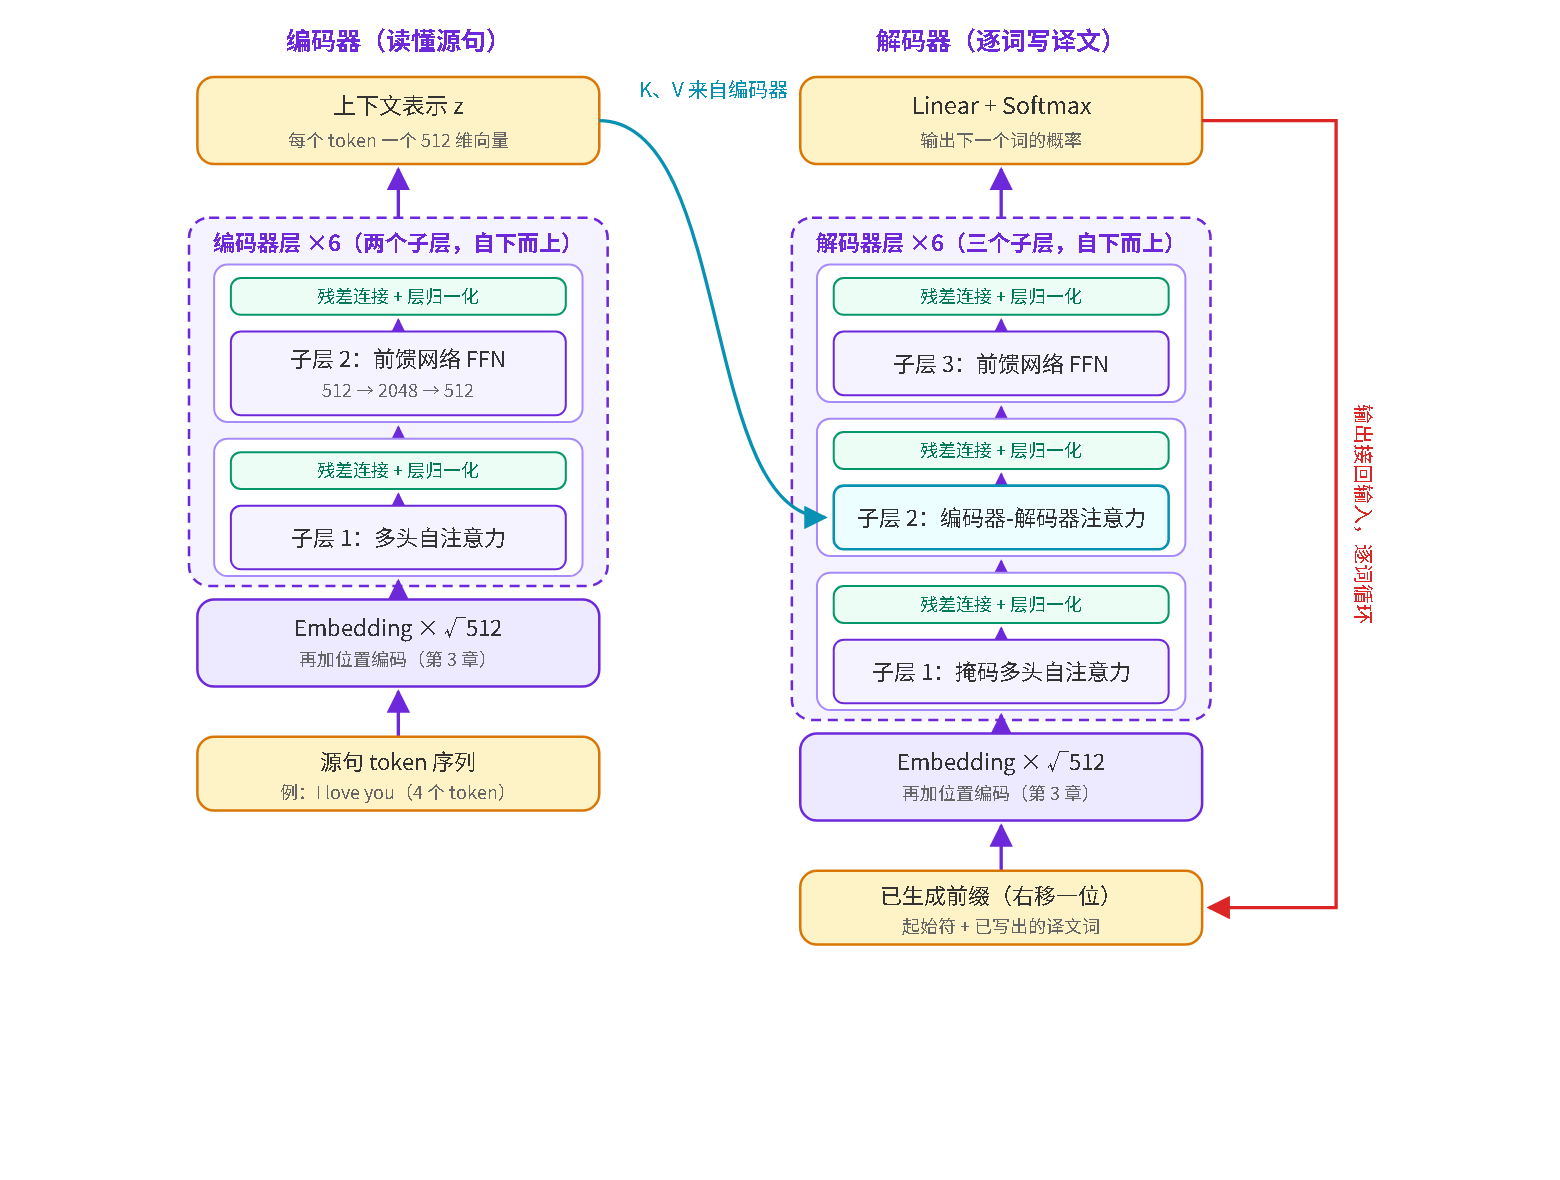
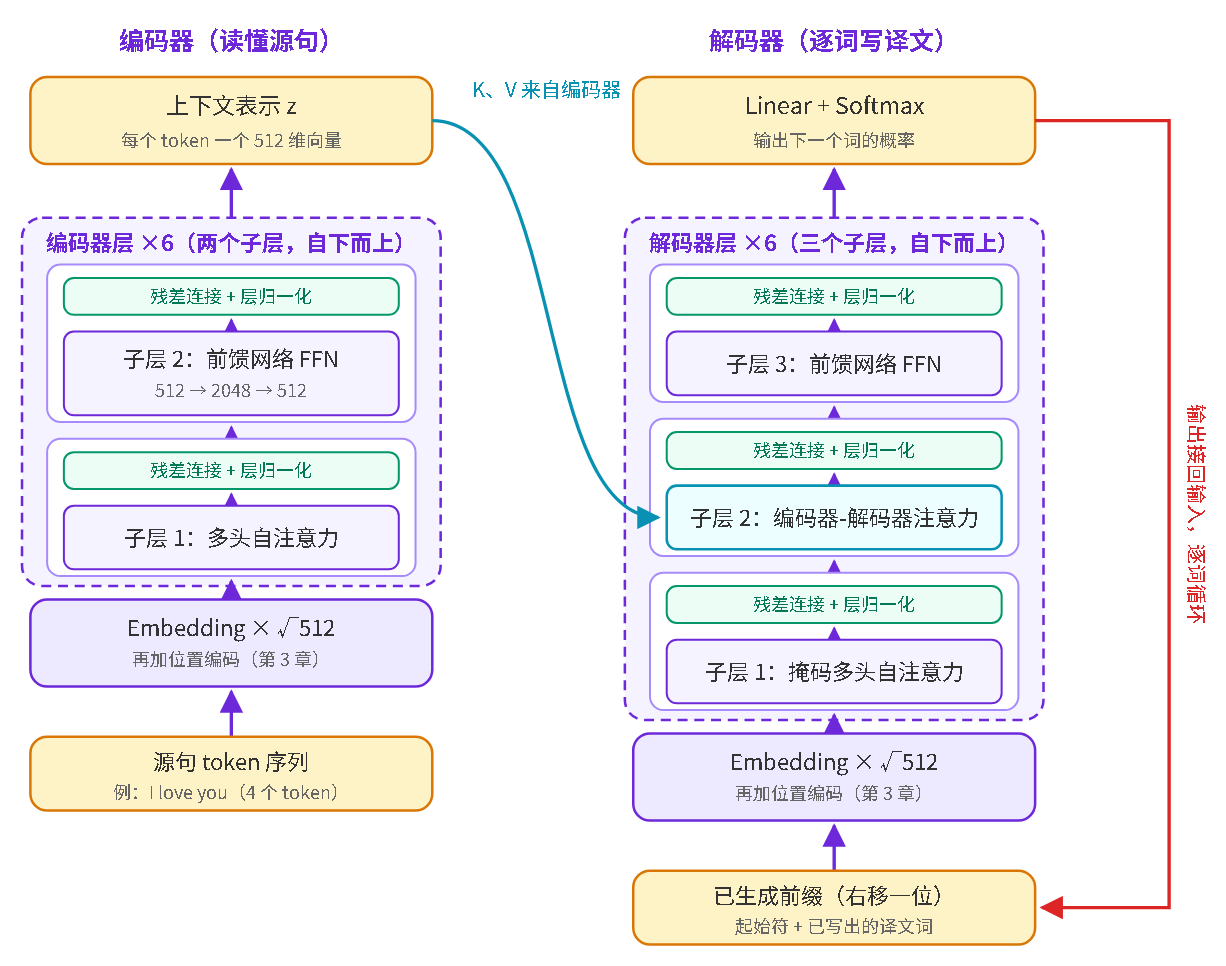
[新增] README 封面加入注意力动画 gif（assets/transformer-detailed-2.gif，标注 3Blue1Brown 风格出处）；[改进] 两张预览图裁掉左右下多余留白（pipeline 1426x561、architecture 1226x966）；[改进] ch5_5 图 3 箭头错位修复（残差②从加 1 圈顶分叉、加 2 到输出改平线）

diff --git a/output/html/ch5_5_modern_recap.html b/output/html/ch5_5_modern_recap.html
@@ -705,12 +705,12 @@ document.documentElement.classList.add(on?'nav-on':'nav-off');})();
     <line x1="335" y1="288" x2="335" y2="274" stroke="#6d28d9" stroke-width="2" marker-end="url(#arrB)"/>
     <line x1="335" y1="220" x2="335" y2="194" stroke="#6d28d9" stroke-width="2" marker-end="url(#arrB)"/>
     <line x1="335" y1="120" x2="335" y2="89" stroke="#6d28d9" stroke-width="2" marker-end="url(#arrB)"/>
-    <line x1="335" y1="53" x2="335" y2="50" stroke="#6d28d9" stroke-width="2" marker-end="url(#arrB)"/>
+    <line x1="335" y1="53" x2="335" y2="48" stroke="#6d28d9" stroke-width="2"/>
     <!-- 残差 ①：输入 -> 加1 -->
     <path d="M210,586 L140,586 L140,305 L316,305" fill="none" stroke="#0891b2" stroke-width="2" marker-end="url(#arrB)"/>
     <text x="126" y="440" font-size="11.5" fill="#0891b2" text-anchor="middle" transform="rotate(-90 126 440)">残差 ①：绕过注意力层</text>
     <!-- 残差 ②：加1 后 -> 加2 -->
-    <path d="M335,281 L180,281 L180,70 L316,70" fill="none" stroke="#0891b2" stroke-width="2" marker-end="url(#arrB)"/>
+    <path d="M335,288 L180,288 L180,70 L316,70" fill="none" stroke="#0891b2" stroke-width="2" marker-end="url(#arrB)"/>
     <text x="166" y="180" font-size="11.5" fill="#0891b2" text-anchor="middle" transform="rotate(-90 166 180)">残差 ②：绕过 FFN</text>
     <!-- 右侧注释：GQA + RoPE -->
     <line x1="460" y1="406" x2="600" y2="406" stroke="#9ca3af" stroke-width="1"/>

diff --git a/output/html/pages/ch5_5_modern_recap.html b/output/html/pages/ch5_5_modern_recap.html
@@ -300,12 +300,12 @@
     <line x1="335" y1="288" x2="335" y2="274" stroke="#6d28d9" stroke-width="2" marker-end="url(#arrB)"/>
     <line x1="335" y1="220" x2="335" y2="194" stroke="#6d28d9" stroke-width="2" marker-end="url(#arrB)"/>
     <line x1="335" y1="120" x2="335" y2="89" stroke="#6d28d9" stroke-width="2" marker-end="url(#arrB)"/>
-    <line x1="335" y1="53" x2="335" y2="50" stroke="#6d28d9" stroke-width="2" marker-end="url(#arrB)"/>
+    <line x1="335" y1="53" x2="335" y2="48" stroke="#6d28d9" stroke-width="2"/>
     <!-- 残差 ①：输入 -> 加1 -->
     <path d="M210,586 L140,586 L140,305 L316,305" fill="none" stroke="#0891b2" stroke-width="2" marker-end="url(#arrB)"/>
     <text x="126" y="440" font-size="11.5" fill="#0891b2" text-anchor="middle" transform="rotate(-90 126 440)">残差 ①：绕过注意力层</text>
     <!-- 残差 ②：加1 后 -> 加2 -->
-    <path d="M335,281 L180,281 L180,70 L316,70" fill="none" stroke="#0891b2" stroke-width="2" marker-end="url(#arrB)"/>
+    <path d="M335,288 L180,288 L180,70 L316,70" fill="none" stroke="#0891b2" stroke-width="2" marker-end="url(#arrB)"/>
     <text x="166" y="180" font-size="11.5" fill="#0891b2" text-anchor="middle" transform="rotate(-90 166 180)">残差 ②：绕过 FFN</text>
     <!-- 右侧注释：GQA + RoPE -->
     <line x1="460" y1="406" x2="600" y2="406" stroke="#9ca3af" stroke-width="1"/>

diff --git a/README_en.md b/README_en.md
@@ -15,6 +15,12 @@ No clone, no install — just open the sidebar and read chapter by chapter:
 
 **https://chenchen8486.github.io/LLM_learning/**
 
+<div align="center">
+  <img src="assets/transformer-detailed-2.gif" alt="Transformer attention animation" width="720"/>
+  <br/>
+  <sub>Attention mechanism, animated (visuals in the style of 3Blue1Brown, "Attention in transformers")</sub>
+</div>
+
 ## What makes it different
 
 - **Full pipeline, no gaps** — follows the LLM lifecycle: data collection and cleaning, tokenization, embeddings and positional encoding, Transformer architecture, pre-training, mid-training, post-training (SFT / preference alignment / reasoning training), decoding, inference serving, application patterns, and multimodal extensions.

diff --git a/README.md b/README.md
@@ -9,6 +9,12 @@
 
 　　在线直接看（推荐，无需克隆）：<https://chenchen8486.github.io/LLM_learning/>。从侧边栏按章节顺序阅读即可。
 
+<div align="center">
+  <img src="assets/transformer-detailed-2.gif" alt="Transformer 注意力机制动画" width="720"/>
+  <br/>
+  <sub>注意力机制动画示意（画面风格引自 3Blue1Brown《Attention in transformers》）</sub>
+</div>
+
 ![手册预览：LLM 全链路全景](assets/figure-pipeline.png)
 
 ![手册预览：Transformer 两塔架构](assets/figure-architecture.png)
